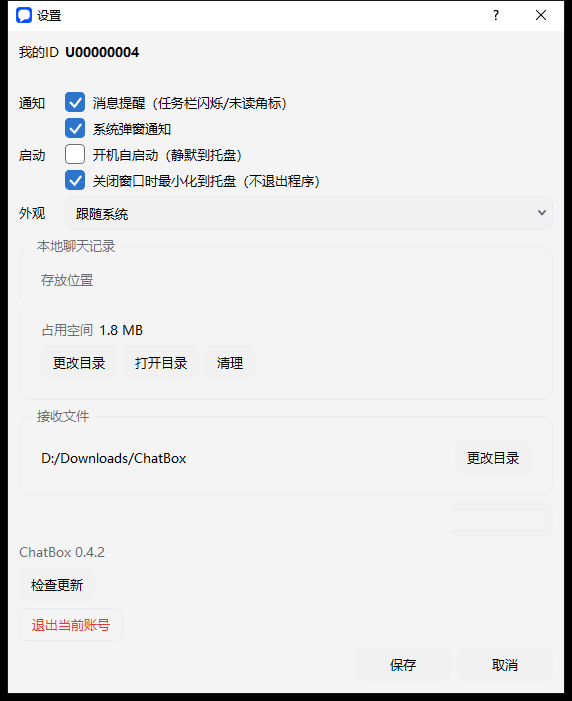
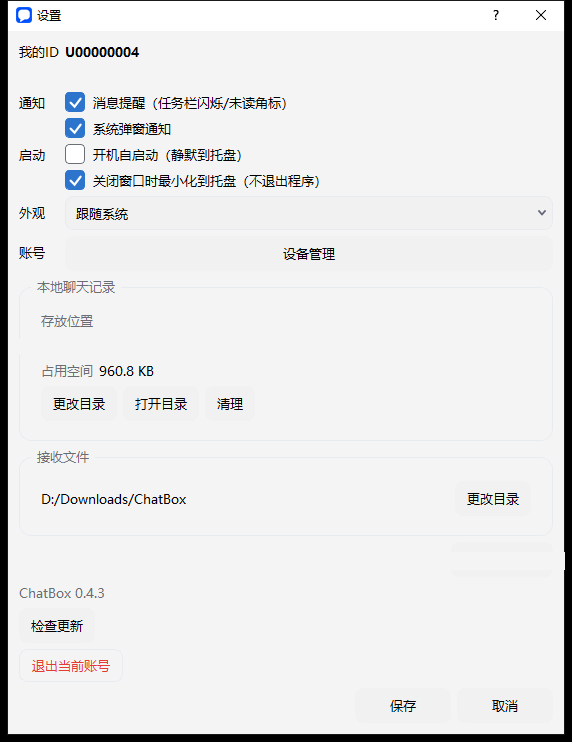
docs: update settings screenshot for 0.4.3
- Show the 0.4.3 version and device management entry
- Keep the server address and local paths hidden

Managed-by: DeepSeek-V4.1-Flash

diff --git a/chatbox/client/screenshots/README.md b/chatbox/client/screenshots/README.md
@@ -22,7 +22,7 @@
 
 说明：
 
-- 2026-10-30：按 0.4.2 重新截取登录、主界面、私聊、资料和设置页；服务器地址与本机路径已隐藏。
+- 2026-10-30：按 0.4.x 重新截取登录、主界面、私聊、资料和设置页；服务器地址与本机路径已隐藏。
 - 这些图片是界面代表图，不保证逐像素对应当前构建；UI 改动后应重新截图并更新本表。
 - 旧命名 `screenshot-*.png` 的历史图已清理，避免同一界面保留多份过期版本。
 - 只保留与当前代码一致的界面；临时调试图和重复图不再入库。
